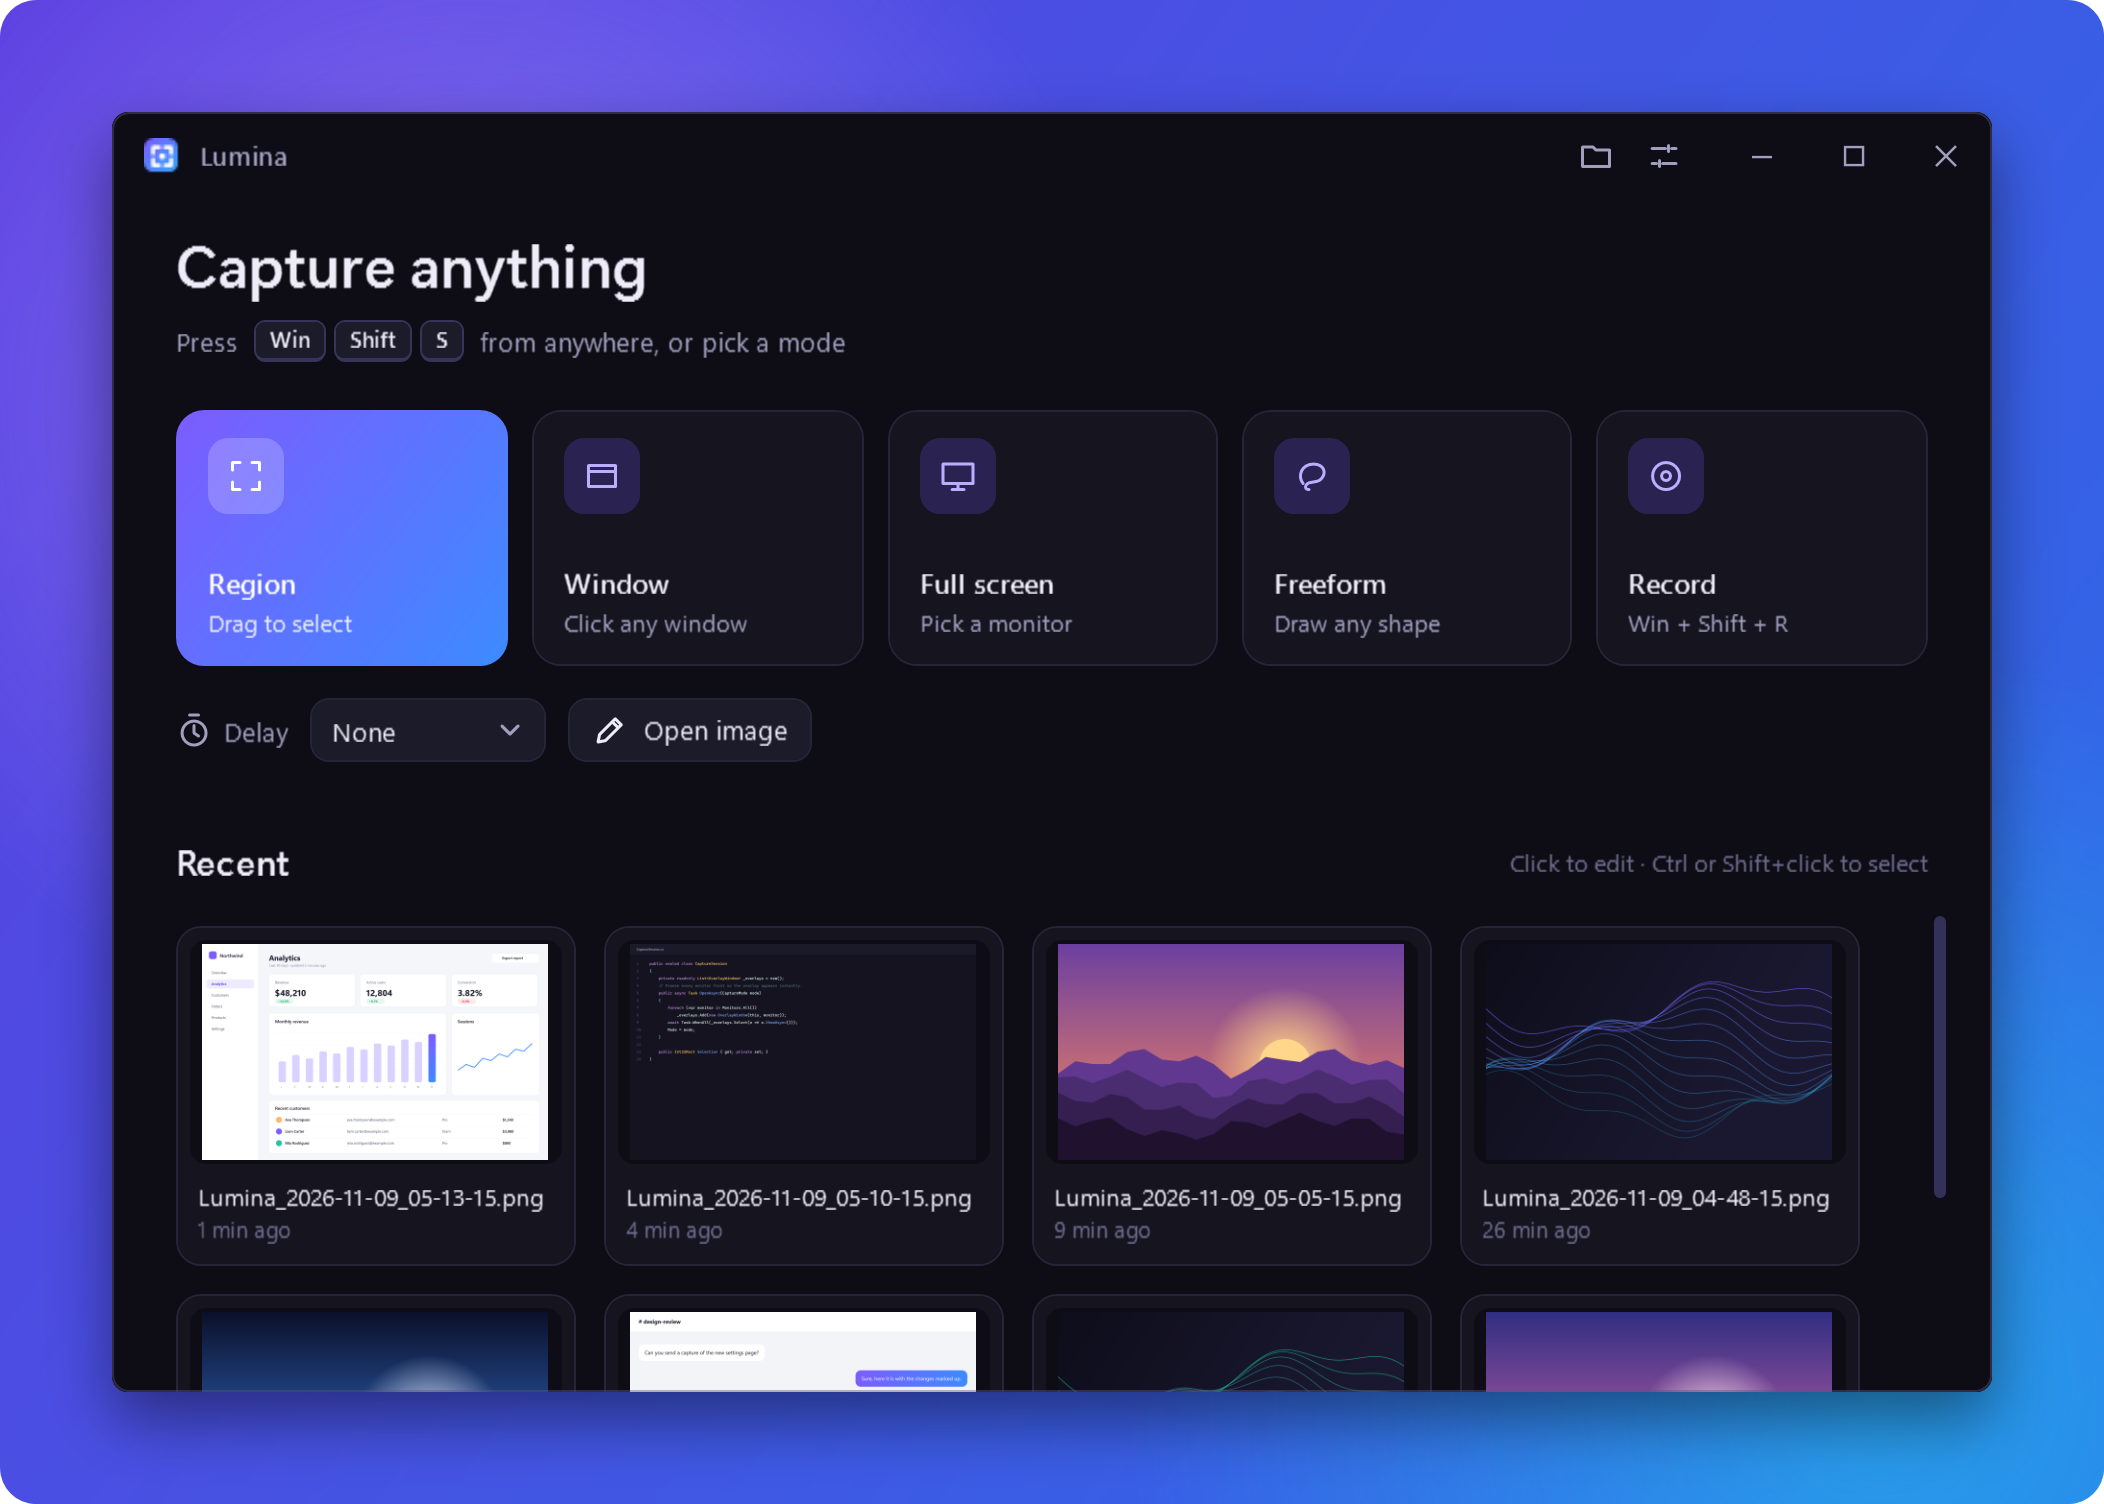
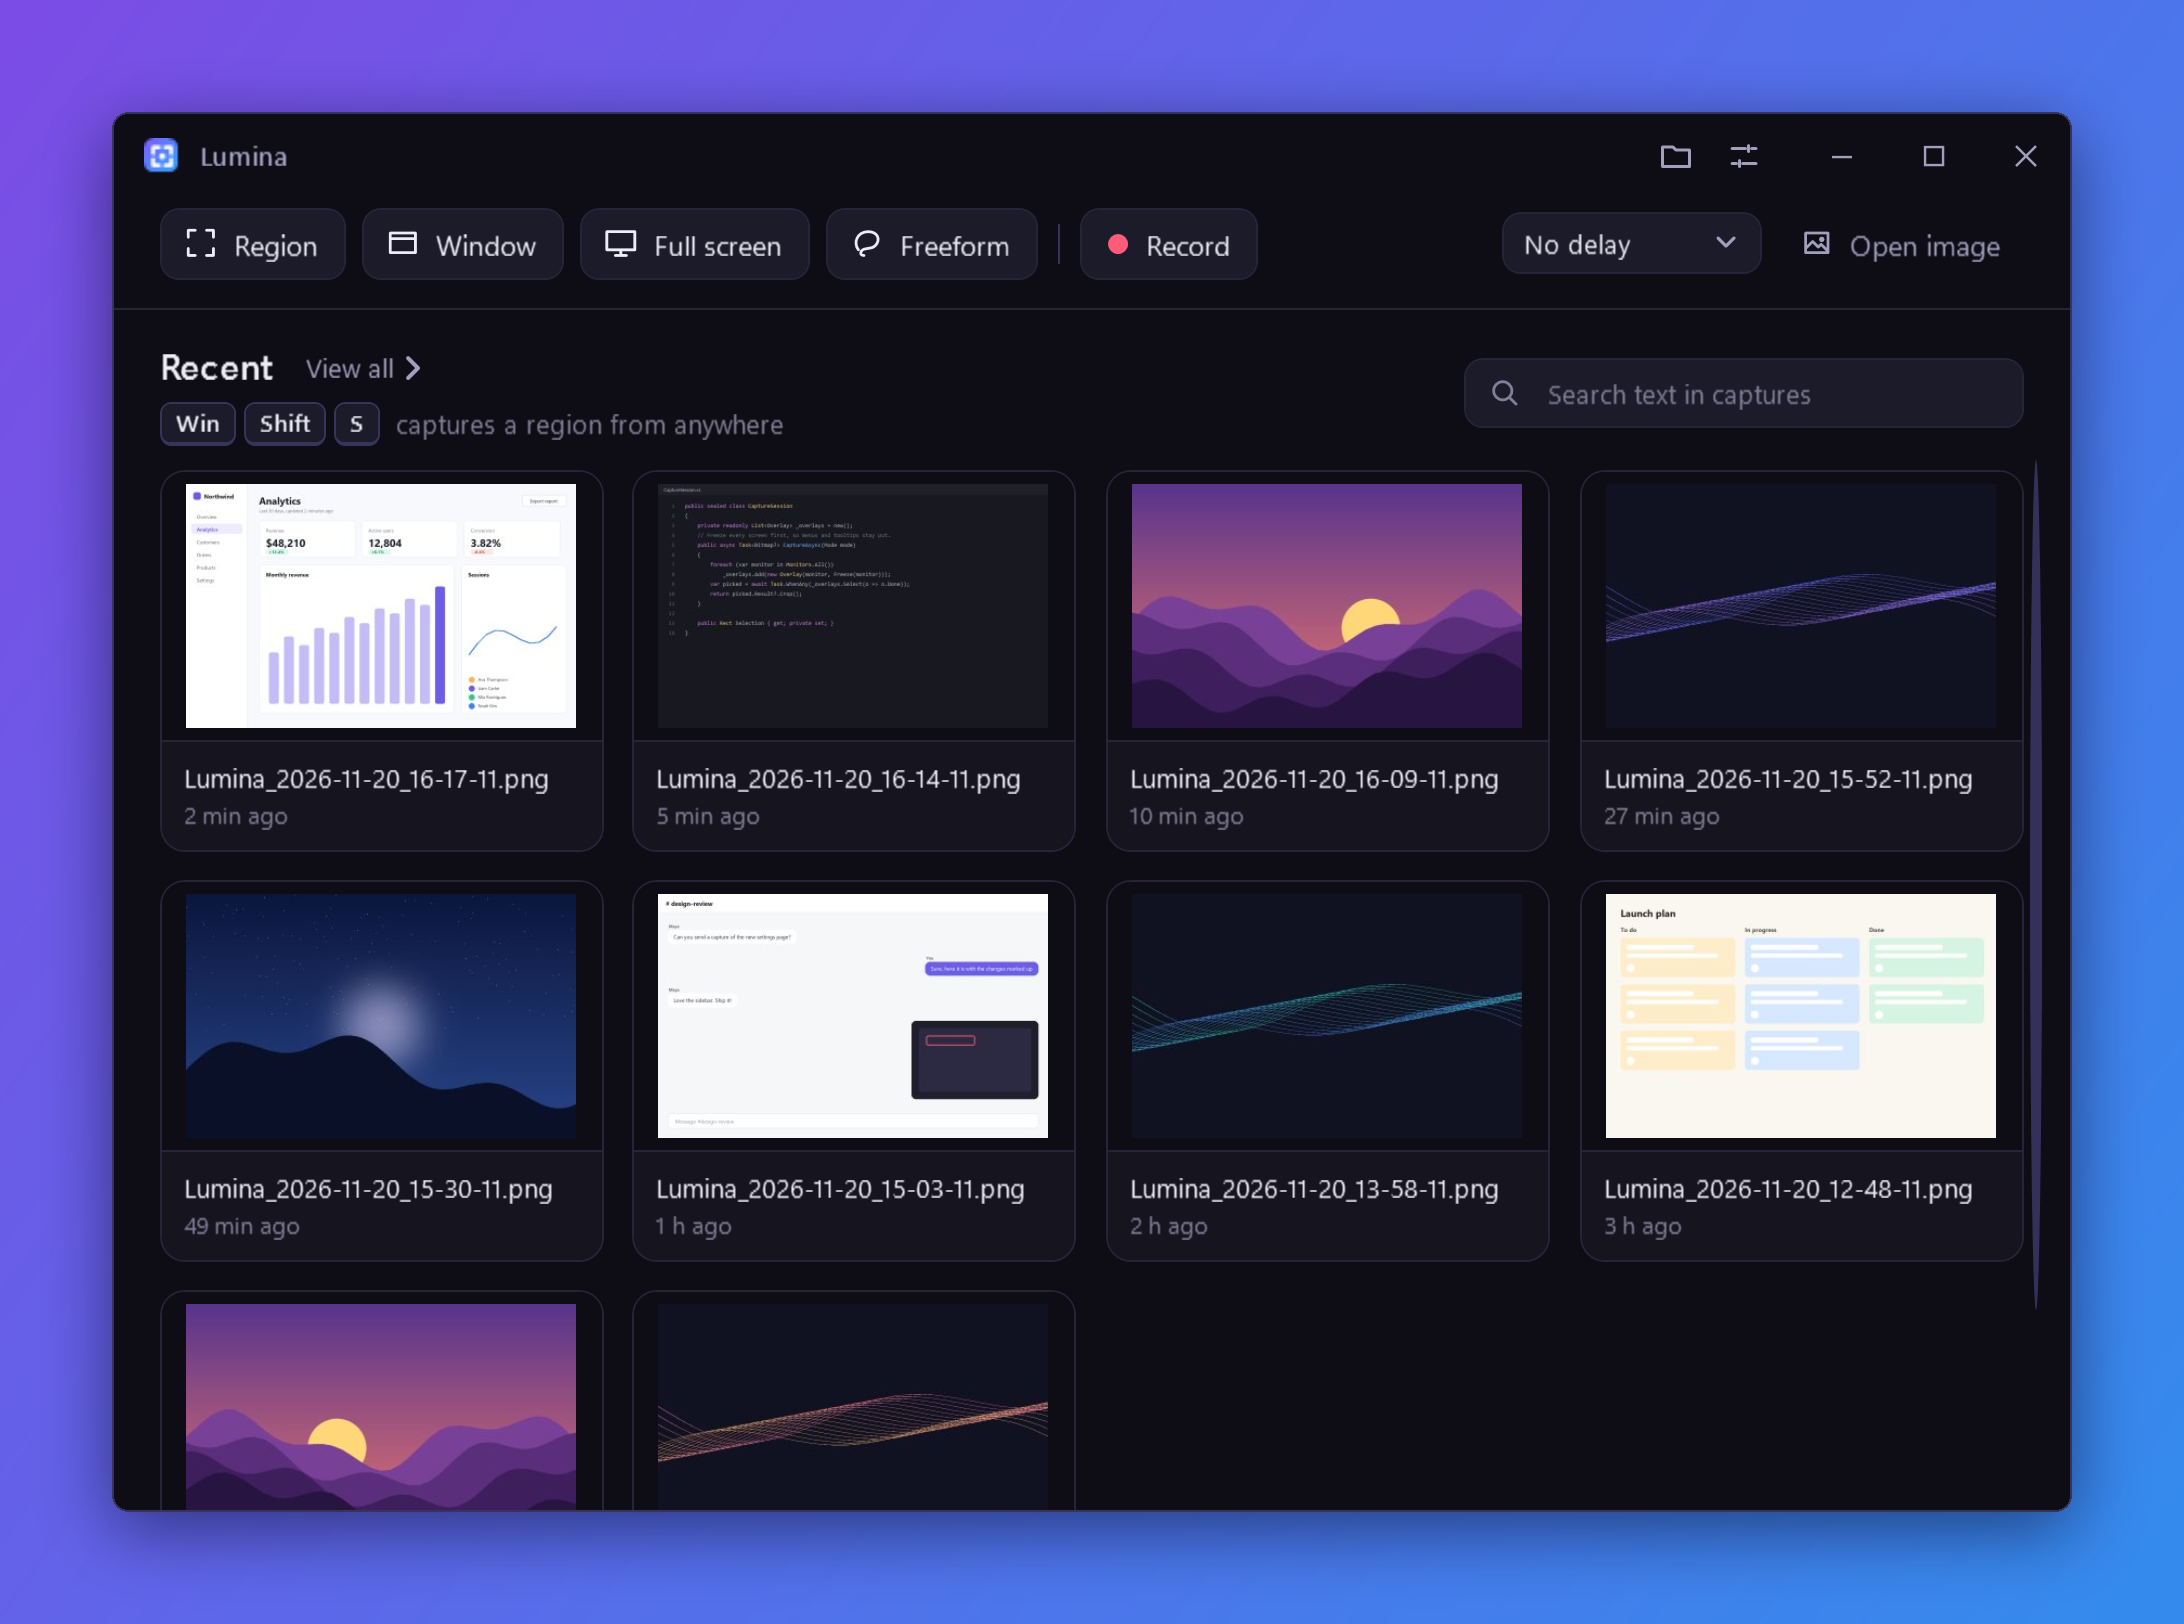
README: themes section and new screenshots
Home and Settings screenshots show the new layout, plus a themes grid. All captures in them are made-up demo images.

diff --git a/README.md b/README.md
@@ -68,7 +68,9 @@ A lightweight, modern screenshot and screen recording tool for Windows - a repla
 - **Change any part of a theme**: every color (with a readability check), the font, corners, line weight, depth (flat, soft, glow or blocky) and background pattern. Changes show in every window at once.
 - **Export and import** themes as small JSON files to share or keep.
 
-<p align="center"><img src="docs/screenshots/settings.png" width="520" alt="Settings: shortcuts, capture options and recording with audio devices"></p>
+![Graphite, Paper, Ember and Strider themes on the home window](docs/screenshots/themes.png)
+
+<p align="center"><img src="docs/screenshots/settings.png" width="520" alt="Settings, Appearance: the six theme presets and their colors"></p>
 
 ## Install
 
